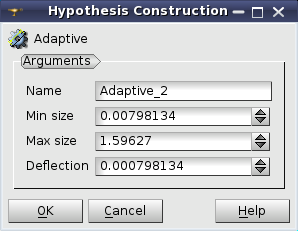
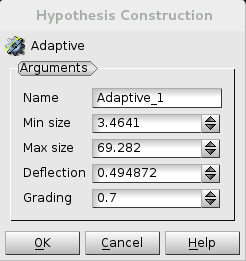
Add “Grading” parameter to Adaptive 1D hypothesis

diff --git a/src/StdMeshersGUI/StdMeshers_msg_fr.ts b/src/StdMeshersGUI/StdMeshers_msg_fr.ts
@@ -136,6 +136,10 @@
         <translation>La fonction n&apos;est pas valide</translation>
     </message>
     <message>
+        <source>SMESH_GRADING1D_PARAM</source>
+        <translation type="unfinished">Grading</translation>
+    </message>
+    <message>
         <source>SMESH_LAYERS_DISTRIBUTION</source>
         <translation>Hypothèse 1D </translation>
     </message>

diff --git a/src/StdMeshersGUI/StdMeshers_msg_ja.ts b/src/StdMeshersGUI/StdMeshers_msg_ja.ts
@@ -151,6 +151,10 @@
       <translation>関数が無効です。</translation>
     </message>
     <message>
+        <source>SMESH_GRADING1D_PARAM</source>
+        <translation type="unfinished">Grading</translation>
+    </message>
+    <message>
       <source>SMESH_LAYERS_DISTRIBUTION</source>
       <translation>仮説 1 d</translation>
     </message>

diff --git a/src/StdMeshersGUI/StdMeshers_msg_en.ts b/src/StdMeshersGUI/StdMeshers_msg_en.ts
@@ -151,6 +151,10 @@
         <translation>Function is invalid</translation>
     </message>
     <message>
+        <source>SMESH_GRADING1D_PARAM</source>
+        <translation>Grading</translation>
+    </message>
+    <message>
         <source>SMESH_LAYERS_DISTRIBUTION</source>
         <translation>1D Hypothesis</translation>
     </message>

diff --git a/src/SMESH_SWIG/StdMeshersBuilder.py b/src/SMESH_SWIG/StdMeshersBuilder.py
@@ -183,20 +183,23 @@ class StdMeshersBuilder_Segment(Mesh_Algorithm):
     #  @param minSize defines the minimal allowed segment length
     #  @param maxSize defines the maximal allowed segment length
     #  @param deflection defines the maximal allowed distance from a segment to an edge
+    #  @param grading defines how much size of adjacent elements can differ
     #  @param UseExisting if ==true - searches for an existing hypothesis created with
     #                     the same parameters, else (default) - creates a new one
     #  @return an instance of StdMeshers_Adaptive1D hypothesis
     #  @ingroup l3_hypos_1dhyps
-    def Adaptive(self, minSize, maxSize, deflection, UseExisting=False):
+    def Adaptive(self, minSize, maxSize, deflection, grading, UseExisting=False):
         from salome.smesh.smeshBuilder import IsEqual
         compFun = lambda hyp, args: ( IsEqual(hyp.GetMinSize(), args[0]) and \
                                       IsEqual(hyp.GetMaxSize(), args[1]) and \
-                                      IsEqual(hyp.GetDeflection(), args[2]))
-        hyp = self.Hypothesis("Adaptive1D", [minSize, maxSize, deflection],
+                                      IsEqual(hyp.GetDeflection(), args[2]) and \
+                                      IsEqual(hyp.GetGrading(), args[3]))
+        hyp = self.Hypothesis("Adaptive1D", [minSize, maxSize, deflection, grading],
                               UseExisting=UseExisting, CompareMethod=compFun)
         hyp.SetMinSize(minSize)
         hyp.SetMaxSize(maxSize)
         hyp.SetDeflection(deflection)
+        hyp.SetGrading(grading)
         return hyp
 
     ## Defines "Arithmetic1D" hypothesis to cut an edge in several segments with a length

diff --git a/doc/salome/examples/defining_hypotheses_adaptive1d.py b/doc/salome/examples/defining_hypotheses_adaptive1d.py
@@ -19,12 +19,14 @@ shape = geompy.MakeCut( shape, tool, theName="shape" )
 # Parameters of Adaptive hypothesis. minSize and maxSize are such that they do not limit
 # size of segments because size of geometrical features lies within [2.-100.] range, hence
 # size of segments is defined by deflection parameter and size of geometrical features only.
+# grading is defined how much size of adjacent elements can differ.
 minSize = 0.1
 maxSize = 200
 deflection = 0.05
+grading = 0.7
 
 mesh = smesh.Mesh( shape )
-mesh.Segment().Adaptive( minSize, maxSize, deflection )
+mesh.Segment().Adaptive( minSize, maxSize, deflection, grading )
 mesh.Triangle().MaxElementArea( 300 )
 mesh.Compute()
 
